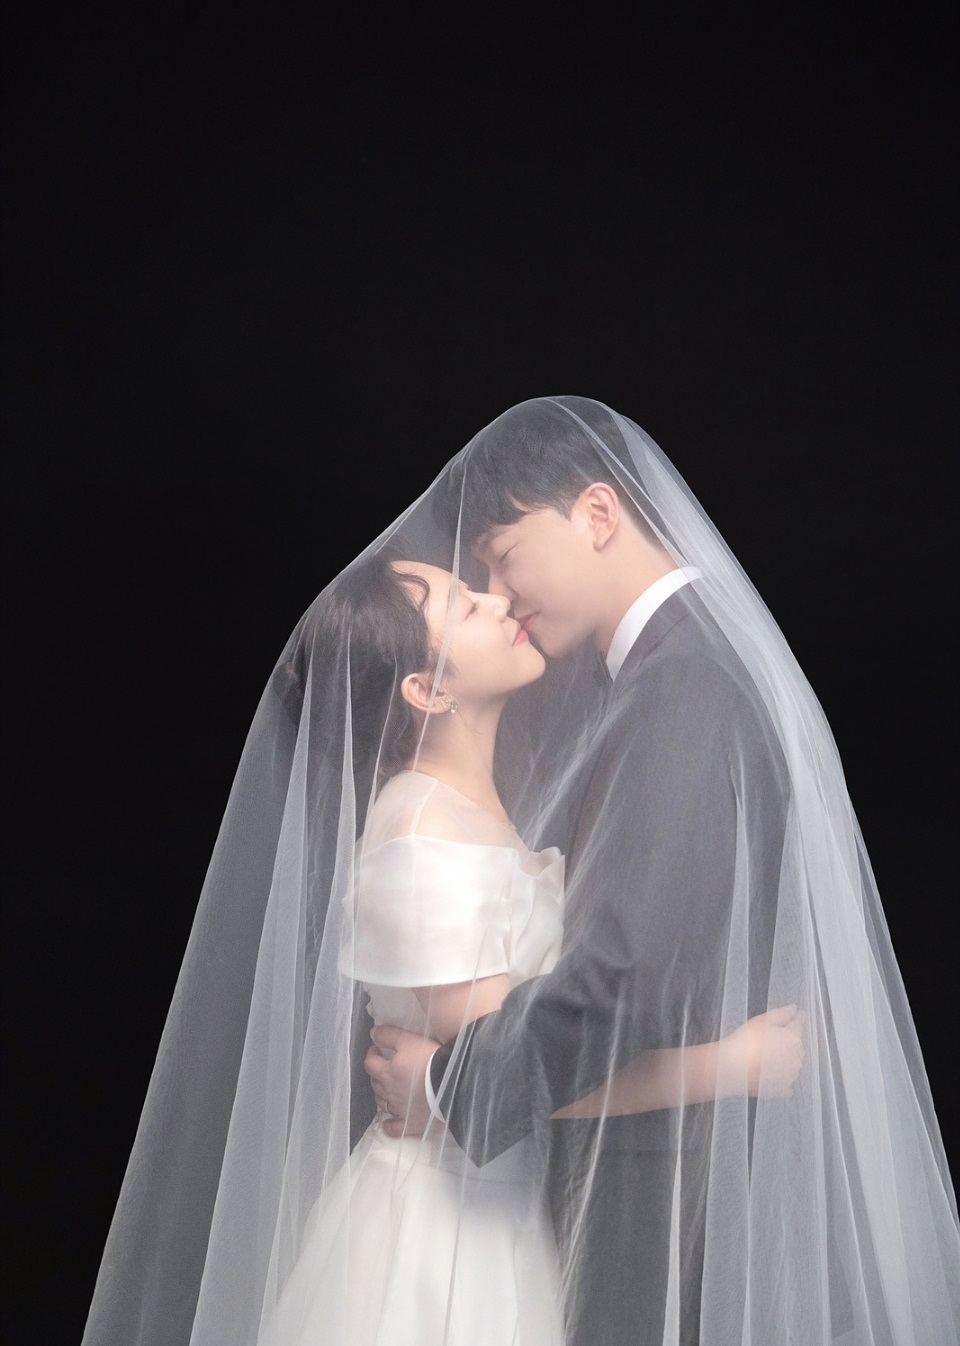
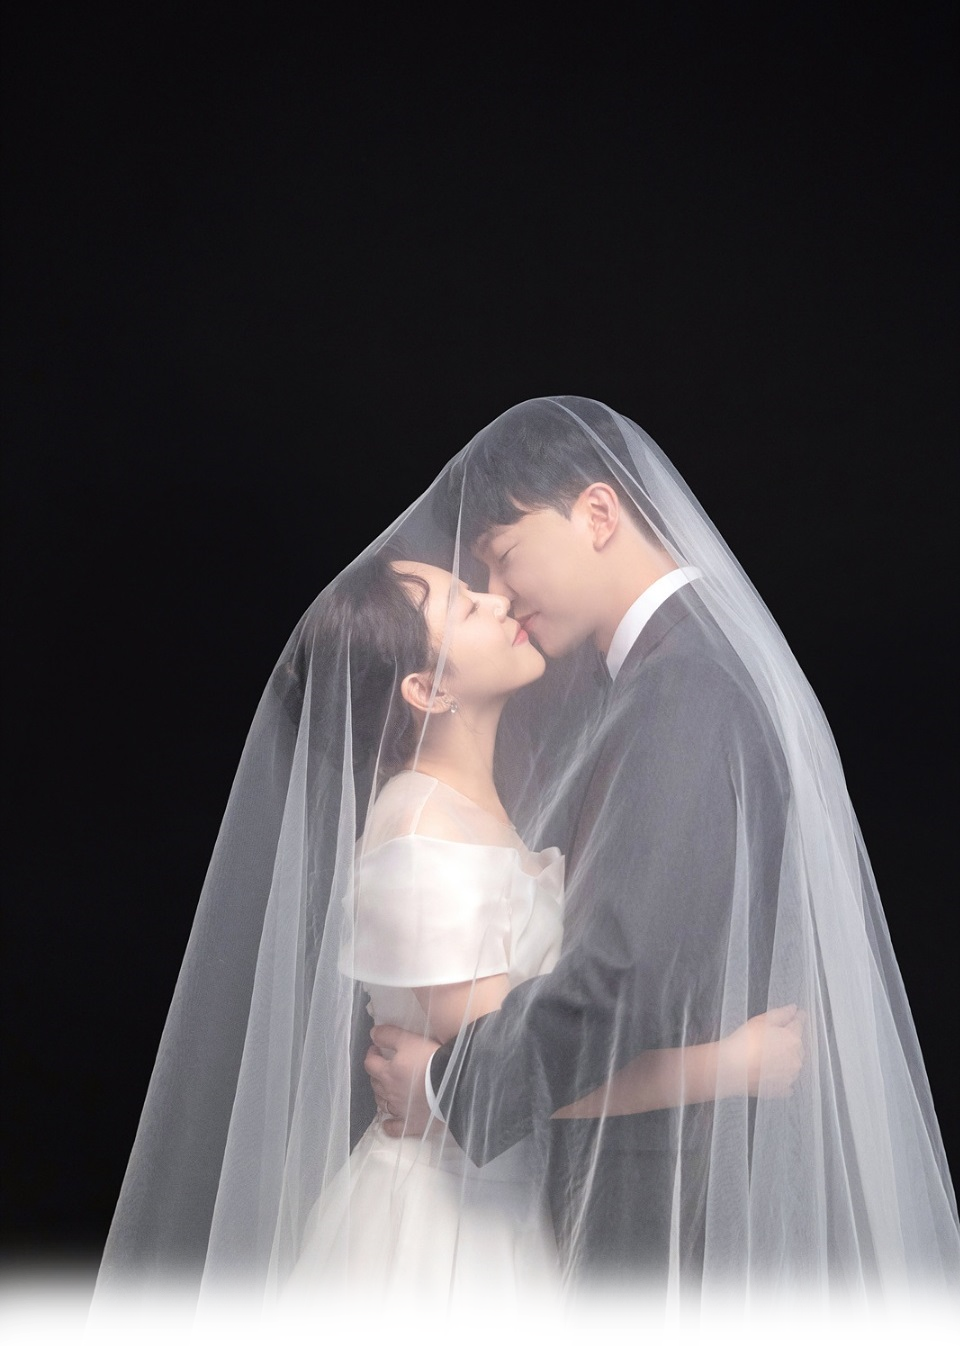
요구사항 반영

Changed region(s): [[0.0, 0.9049, 1.0, 1.0]]

diff --git a/index.html b/index.html
@@ -80,7 +80,7 @@
                               class="id6-section1 absolute z-10 flex flex-1 items-center justify-center w-full text-center break-all"
                               style=" color: #ffffffc2; font-weight: bold; margin-top: 5rem;">
                               <div class="id6-section2 justify-center w-full"
-                                style="letter-spacing: 0.25em; white-space: break-spaces;">김휘진</div>
+                                style="letter-spacing: 0.25em; white-space: break-spaces;">주현정</div>
                               <div class="id6-section2-1 flex flex-col w-full text-center">
                                 <div class="id6-section3 break-keep" style="letter-spacing: 0.1em;">02</div>
                                 <hr class="id6-section4 mx-auto"
@@ -88,7 +88,7 @@
                                 <div class="id6-section5 break-keep" style="letter-spacing: 0.1em;">22</div>
                               </div>
                               <div class="id6-section2 justify-center w-full"
-                                style="letter-spacing: 0.25em; white-space: break-spaces;">주현정</div>
+                                style="letter-spacing: 0.25em; white-space: break-spaces;">김휘진</div>
                             </div>
 
                             <div class="relative overflow-hidden bg-repeat bg-cover bg-center">
@@ -727,15 +727,15 @@
                   <section data-v-75bef60a="" id="editor-section-account"
                     class="base-section relative bgpoint2 lower select-none large GowunDodum style3 !pb-28 bgpaper"
                     section-id="editor-section-account"
-                    style="padding-top: 4rem; padding-bottom: 4rem; transform: scale(1); z-index: 17;">
+                    style="padding-top: 4rem; padding-bottom: 4rem; transform: scale(1); z-index: 17; background-color: rgba(238, 238, 238);">
                     <div class="top-0 left-0 absolute -translate-y-[96%] z-[1] w-full"><!----> <!----> <svg
                         xmlns="http://www.w3.org/2000/svg" viewBox="0 0 1440 65" preserveAspectRatio="xMidYMid meet">
-                        <g fill="#f9f6f1" stroke="none" transform="translate(0,65) scale(0.1,-0.1)">
+                        <g fill="#EEEEEE" stroke="none" transform="translate(0,65) scale(0.1,-0.1)">
                           <path
                             d="M6470 629 c-1061 -34 -2002 -142 -3561 -408 -675 -115 -1198 -174 -1899 -214 -30 -2 2755 -3 6190 -3 3435 0 6225 1 6200 3 -25 1 -126 7 -225 13 -536 32 -1103 100 -1740 210 -737 127 -1570 247 -2110 305 -835 89 -1920 125 -2855 94z">
                           </path>
                         </g>
-                        <g fill="#f9f9f9" stroke="none" transform="translate(0,65) scale(0.1,-0.1)" class="opacity-50">
+                        <g fill="#E6E6E6" stroke="none" transform="translate(0,65) scale(0.1,-0.1)" class="opacity-50">
                           <path
                             d="M0 322 l0 -322 3073 1 c1689 1 3018 5 2952 10 -705 47 -1210 110 -1970 245 -324 57 -1231 193 -1590 238 -665 83 -1301 126 -2117 142 l-348 7 0 -321z">
                           </path>
